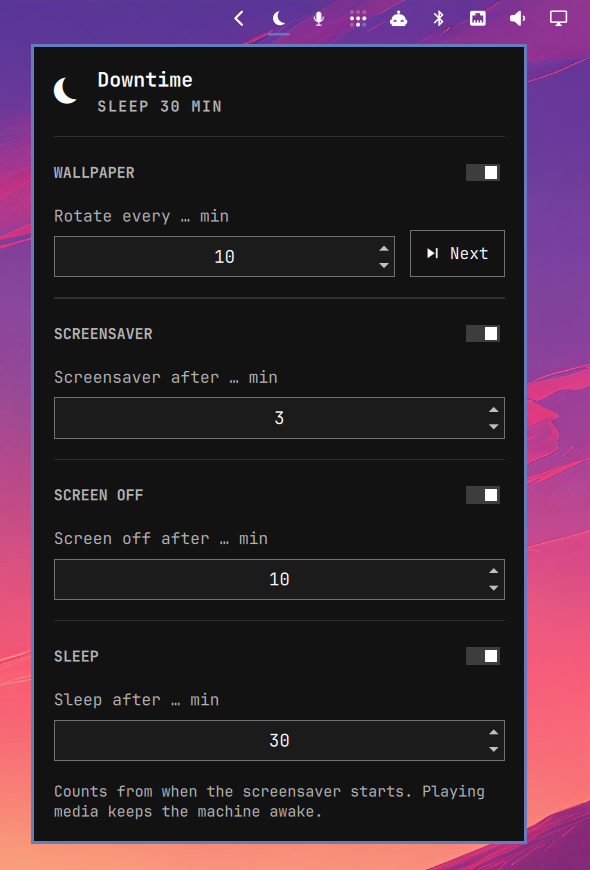
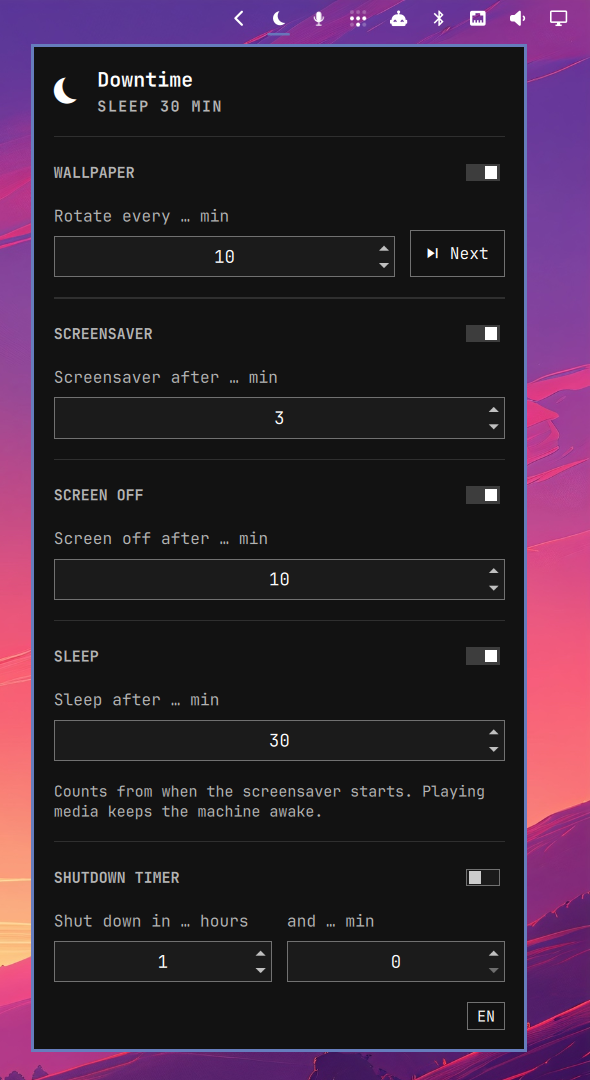
Release 1.3.0

diff --git a/README.md b/README.md
@@ -1,12 +1,12 @@
 # Downtime 💤
 
-Screensaver, screen off, sleep and wallpaper rotation for [Omarchy](https://omarchy.org/), set from one bar widget.
+Screensaver, screen off, sleep, a shutdown timer and wallpaper rotation for [Omarchy](https://omarchy.org/), set from one bar widget.
 
 <p align="center">
-  <img src="preview.png" alt="Downtime panel: wallpaper rotation, screensaver, screen off and sleep timings" width="360">
+  <img src="preview.png" alt="Downtime panel: wallpaper rotation, screensaver, screen off, sleep and shutdown timer" width="360">
 </p>
 
-Omarchy can start a screensaver and lock on idle out of the box. Downtime adds the two steps after that: turn the screen off, then put the machine to sleep.
+Omarchy can start a screensaver and lock on idle out of the box. Downtime adds the steps after that: turn the screen off, put the machine to sleep, or shut it down at a set time.
 
 An independent [MIT](LICENSE)-licensed plugin. Not affiliated with or endorsed by 37signals.
 
@@ -20,12 +20,15 @@ Each setting has a small on/off switch next to its title. The minutes are kept w
 | Screensaver | unchanged | Omarchy's own `idle.screensaver` and screensaver toggle. Left exactly as they are until you change them in the widget. |
 | Screen off | 10 min | Via hypridle. |
 | Sleep | off, 30 min | Via hypridle and `systemctl suspend`. |
+| Shutdown timer | off, 1 h | One-shot, in hours and minutes. Counts real time, not idle time, and powers off with `systemctl poweroff`. |
 
 Things worth knowing:
 
 - **Times count from when the screensaver starts.** Opening the screensaver resets the idle clock. With screensaver 5 and sleep 30, the machine sleeps after about 35 minutes.
 - **Playing media keeps the machine awake.** Inhibitors from browsers and video players are respected.
 - **The screensaver is closed before sleep**, so you wake up to your desktop, not to the screensaver.
+- **The shutdown timer is one-shot.** The switch starts the countdown and cancels it. A notification confirms the time, and another one comes one minute before. Sleep is paused and greyed out while it runs, because a sleeping machine would never shut down. The timer survives a shell restart and is cancelled when the plugin is disabled or removed. The chosen time is kept for next time.
+- **The panel warns when hypridle is missing**, and starts the timings on its own once it is installed.
 - **Locking is not changed.** Omarchy still locks the screen before sleep. If you do not want a password after wake, see [Sleep without a password](#sleep-without-a-password).
 
 ## Install
@@ -57,6 +60,7 @@ Restart the shell after an update. A running shell can keep the old version of t
 - `Service.qml` reads the widget's settings straight from `~/.config/omarchy/shell.json` and runs `scripts/apply` whenever a timing changes, and once at login.
 - Enabling the plugin changes none of your settings. The screensaver stays as it is until you change it in the widget, and your `~/.config/hypr/hypridle.conf` is never touched.
 - `scripts/apply` takes exactly four values and refuses anything else, so a mismatched or half-updated caller changes nothing.
+- `scripts/shutdown` runs the shutdown timer as the transient user units `downtime-shutdown.timer` and `downtime-shutdown-warn.timer`, and keeps its deadline in `~/.local/state/downtime/shutdown-at`.
 - `scripts/apply` writes `~/.local/state/downtime/hypridle.conf` and runs hypridle with it as the user unit `downtime-hypridle.service`. Your own `~/.config/hypr/hypridle.conf` is never touched.
 - Disabling or removing the plugin stops that unit.
 

diff --git a/CHANGELOG.md b/CHANGELOG.md
@@ -1,5 +1,17 @@
 # Changelog
 
+## 1.3.0 - 2026-10-08
+
+- One-shot shutdown timer, entered in hours and minutes. It confirms the time,
+  warns one minute before, pauses and greys out sleep while it runs, survives
+  shell restarts and is cancelled when the plugin is disabled or removed.
+- EN/DE language button in the panel.
+- The screensaver switch no longer rounds Omarchy's delay: switch and minutes
+  are written separately.
+- The panel warns when hypridle is missing and applies the timings once it
+  appears.
+- German header line reads "Energiesparmodus", like its section.
+
 ## 1.2.0 - 2026-10-08
 
 - Every section has the same small on/off switch next to its title. The
